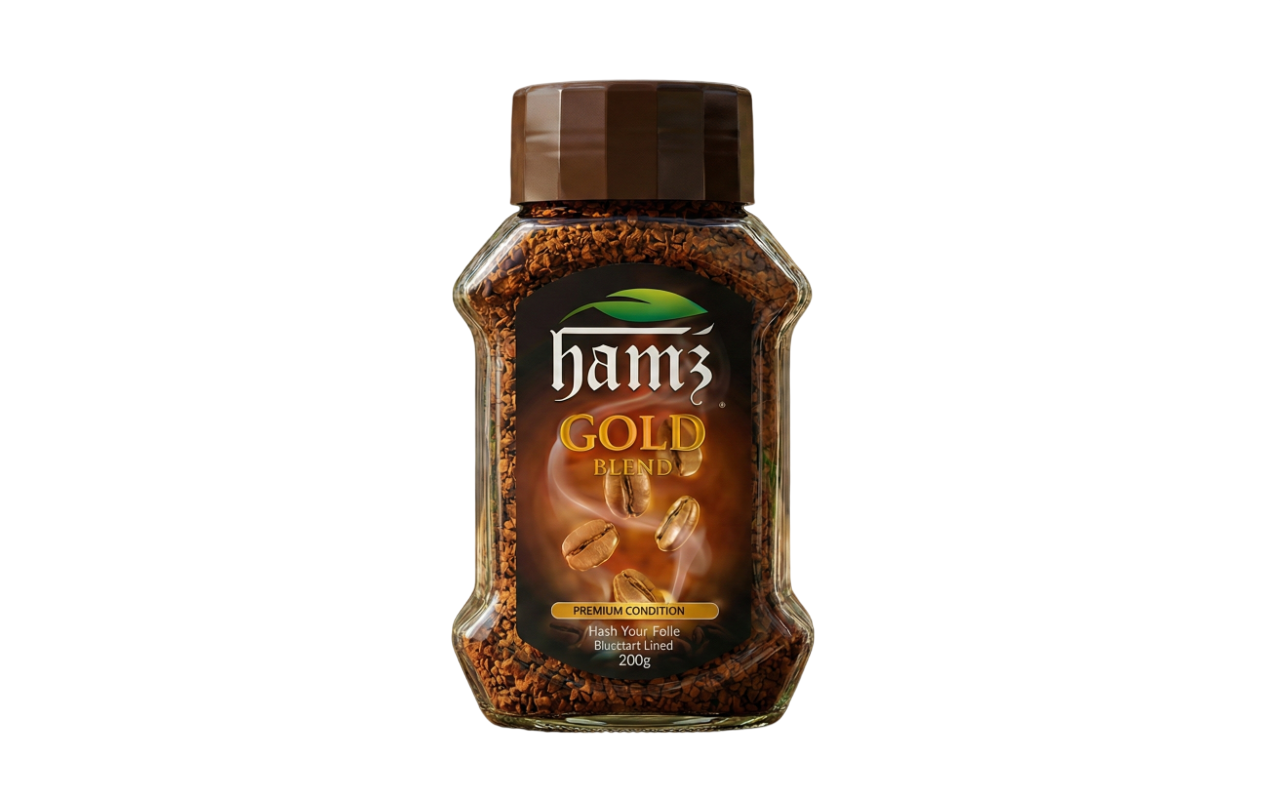
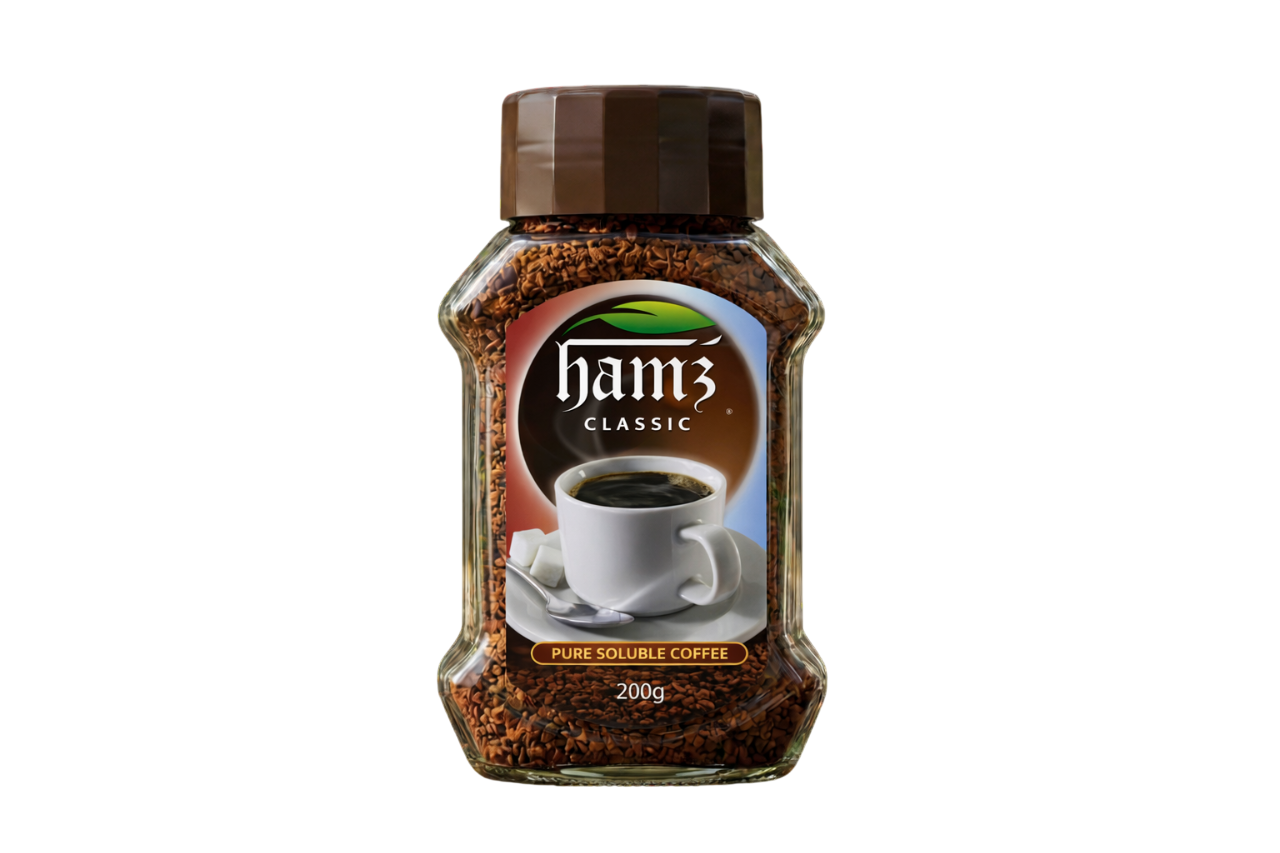
Update hero section images and adjust Danisa cookies position
- Replace coffee and biscuits hero images with new versions
- Move Danisa cookies image down (top-[25%] to top-[32%])

🤖 Generated with [Claude Code](https://claude.com/claude-code)

Changed region(s): [[0.3438, 0.0905, 0.6562, 0.9347]]

diff --git a/resources/views/components/home/hero.blade.php b/resources/views/components/home/hero.blade.php
@@ -132,7 +132,7 @@
                     </div>
 
                     <!-- Center Product - Cookies (Main Focal) - Front -->
-                    <div class="hero-product hero-product-center absolute top-[25%] left-[50%] w-[42%] z-30"
+                    <div class="hero-product hero-product-center absolute top-[32%] left-[50%] w-[42%] z-30"
                          style="transform: translateX(-50%);">
                         <img src="{{ asset('images/hero/danis-cookies.png') }}"
                              alt="Danis Cookies"
